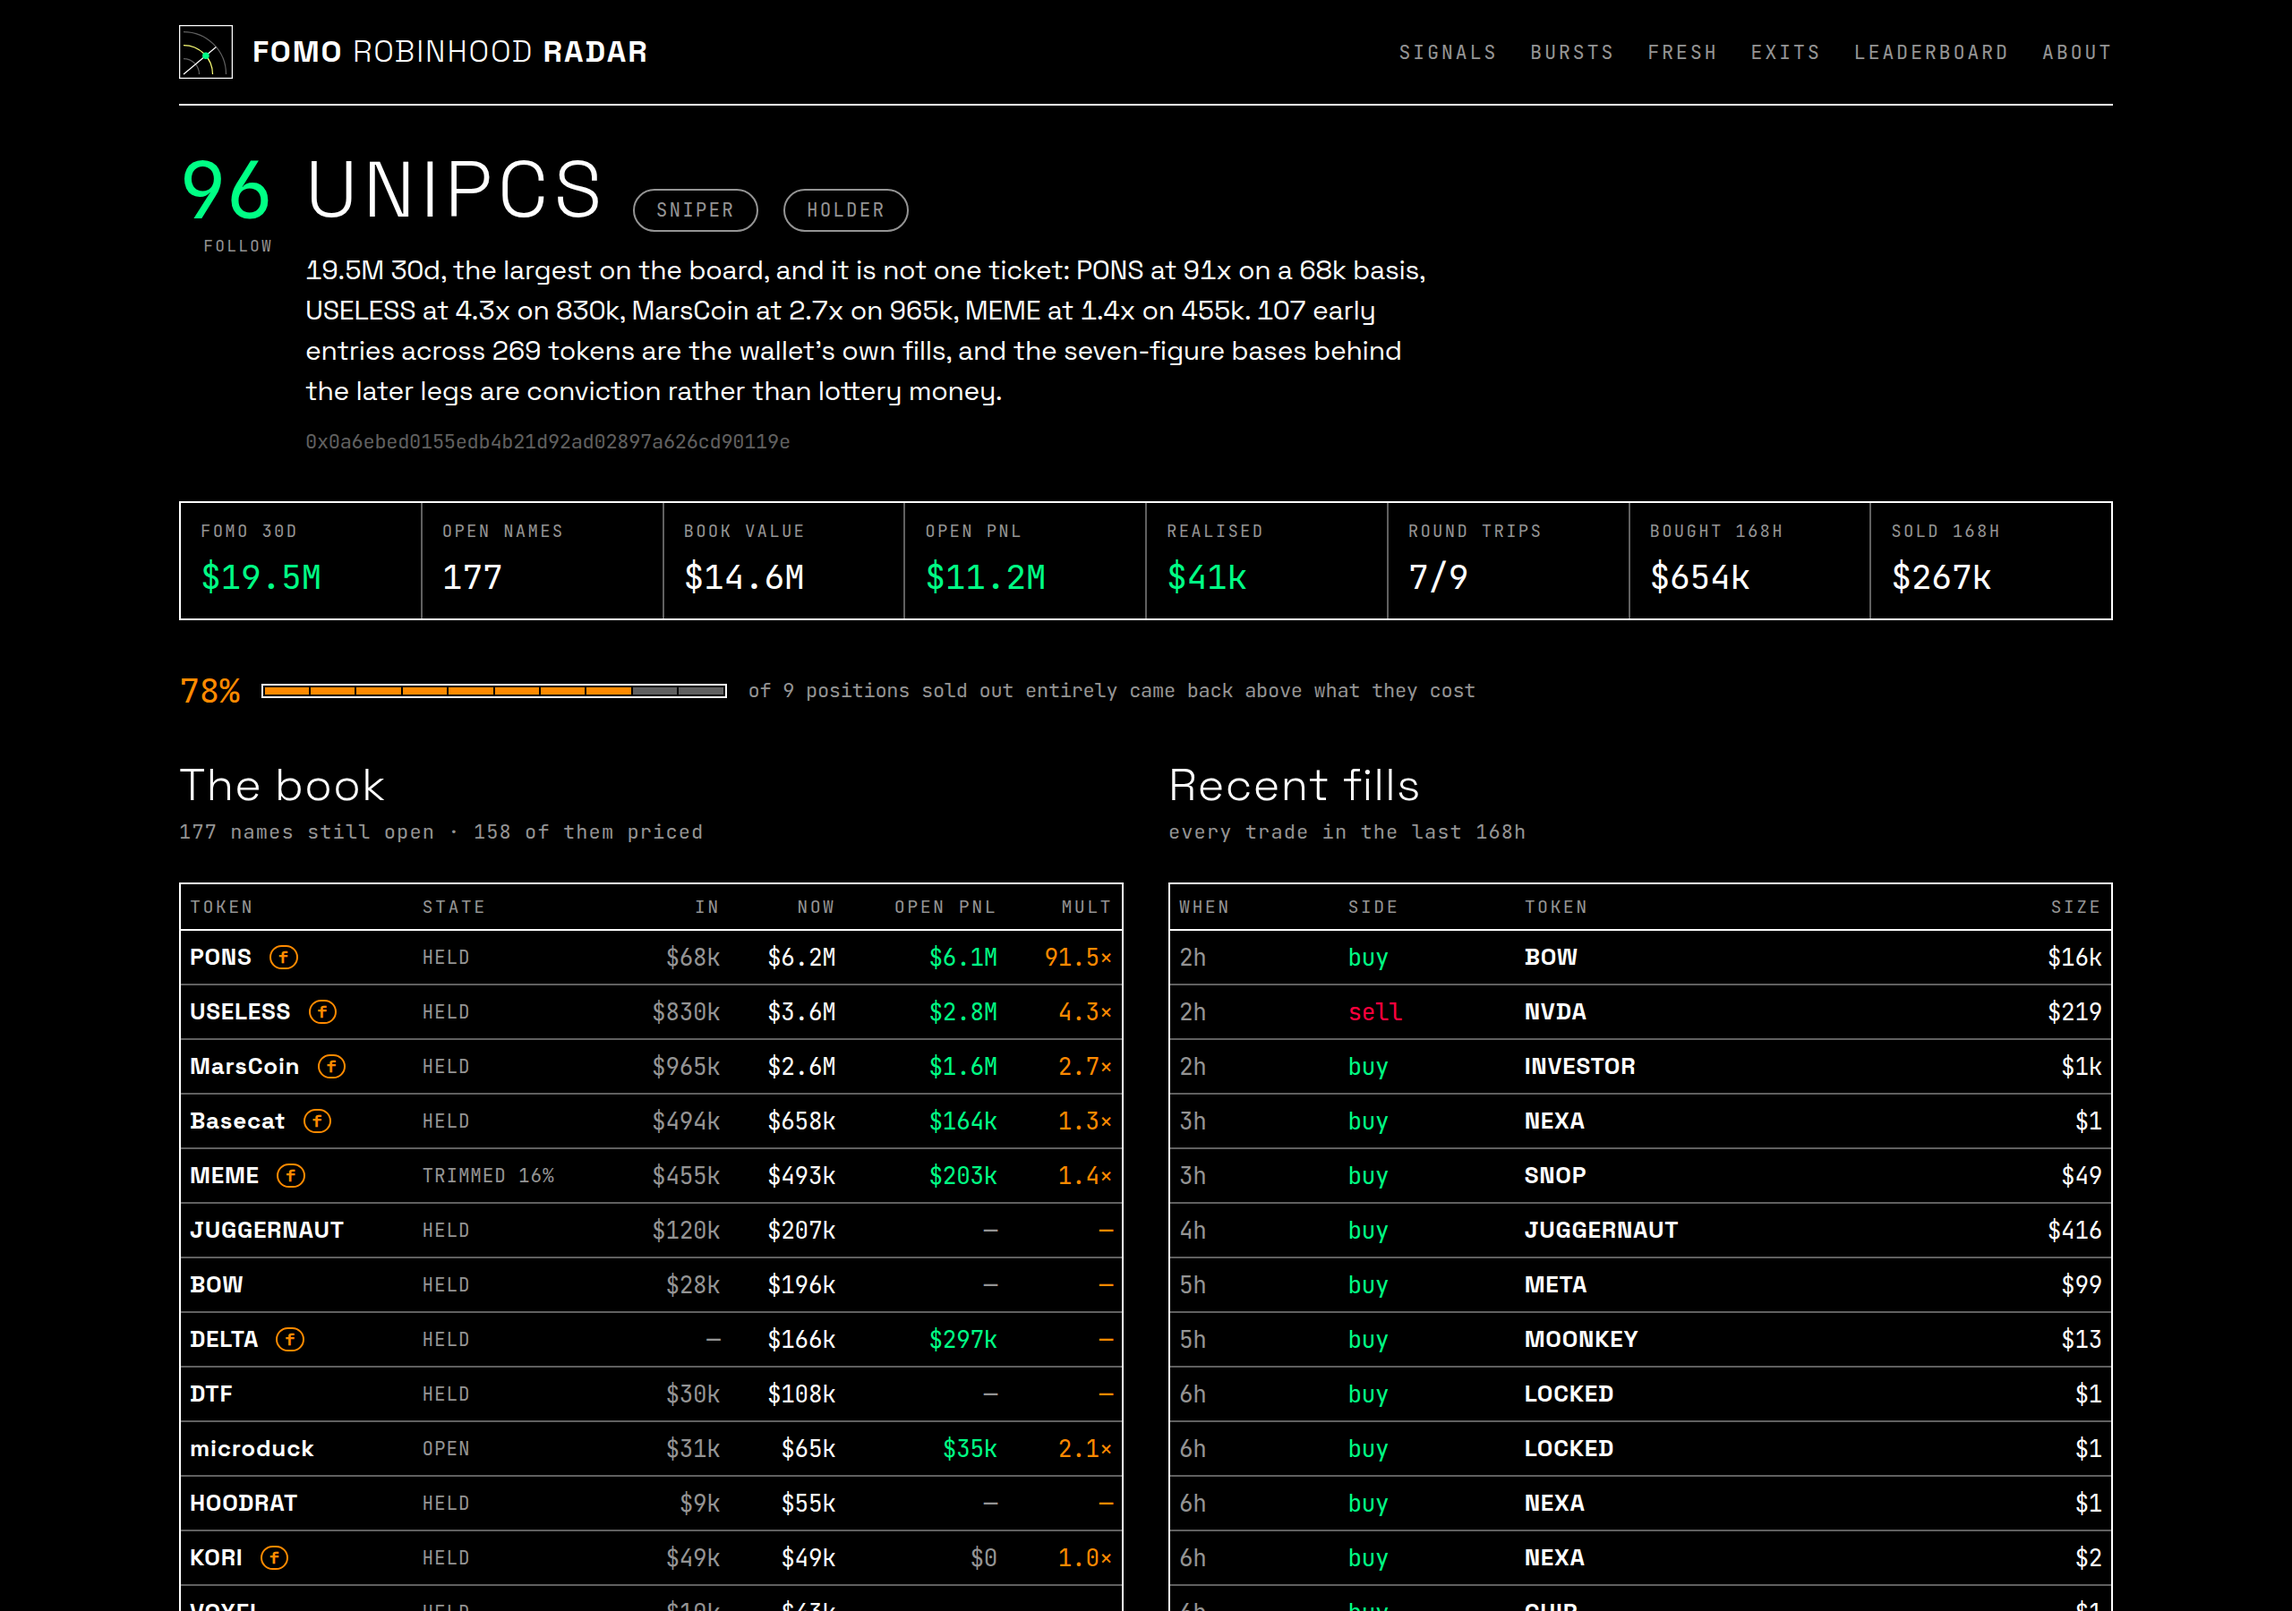
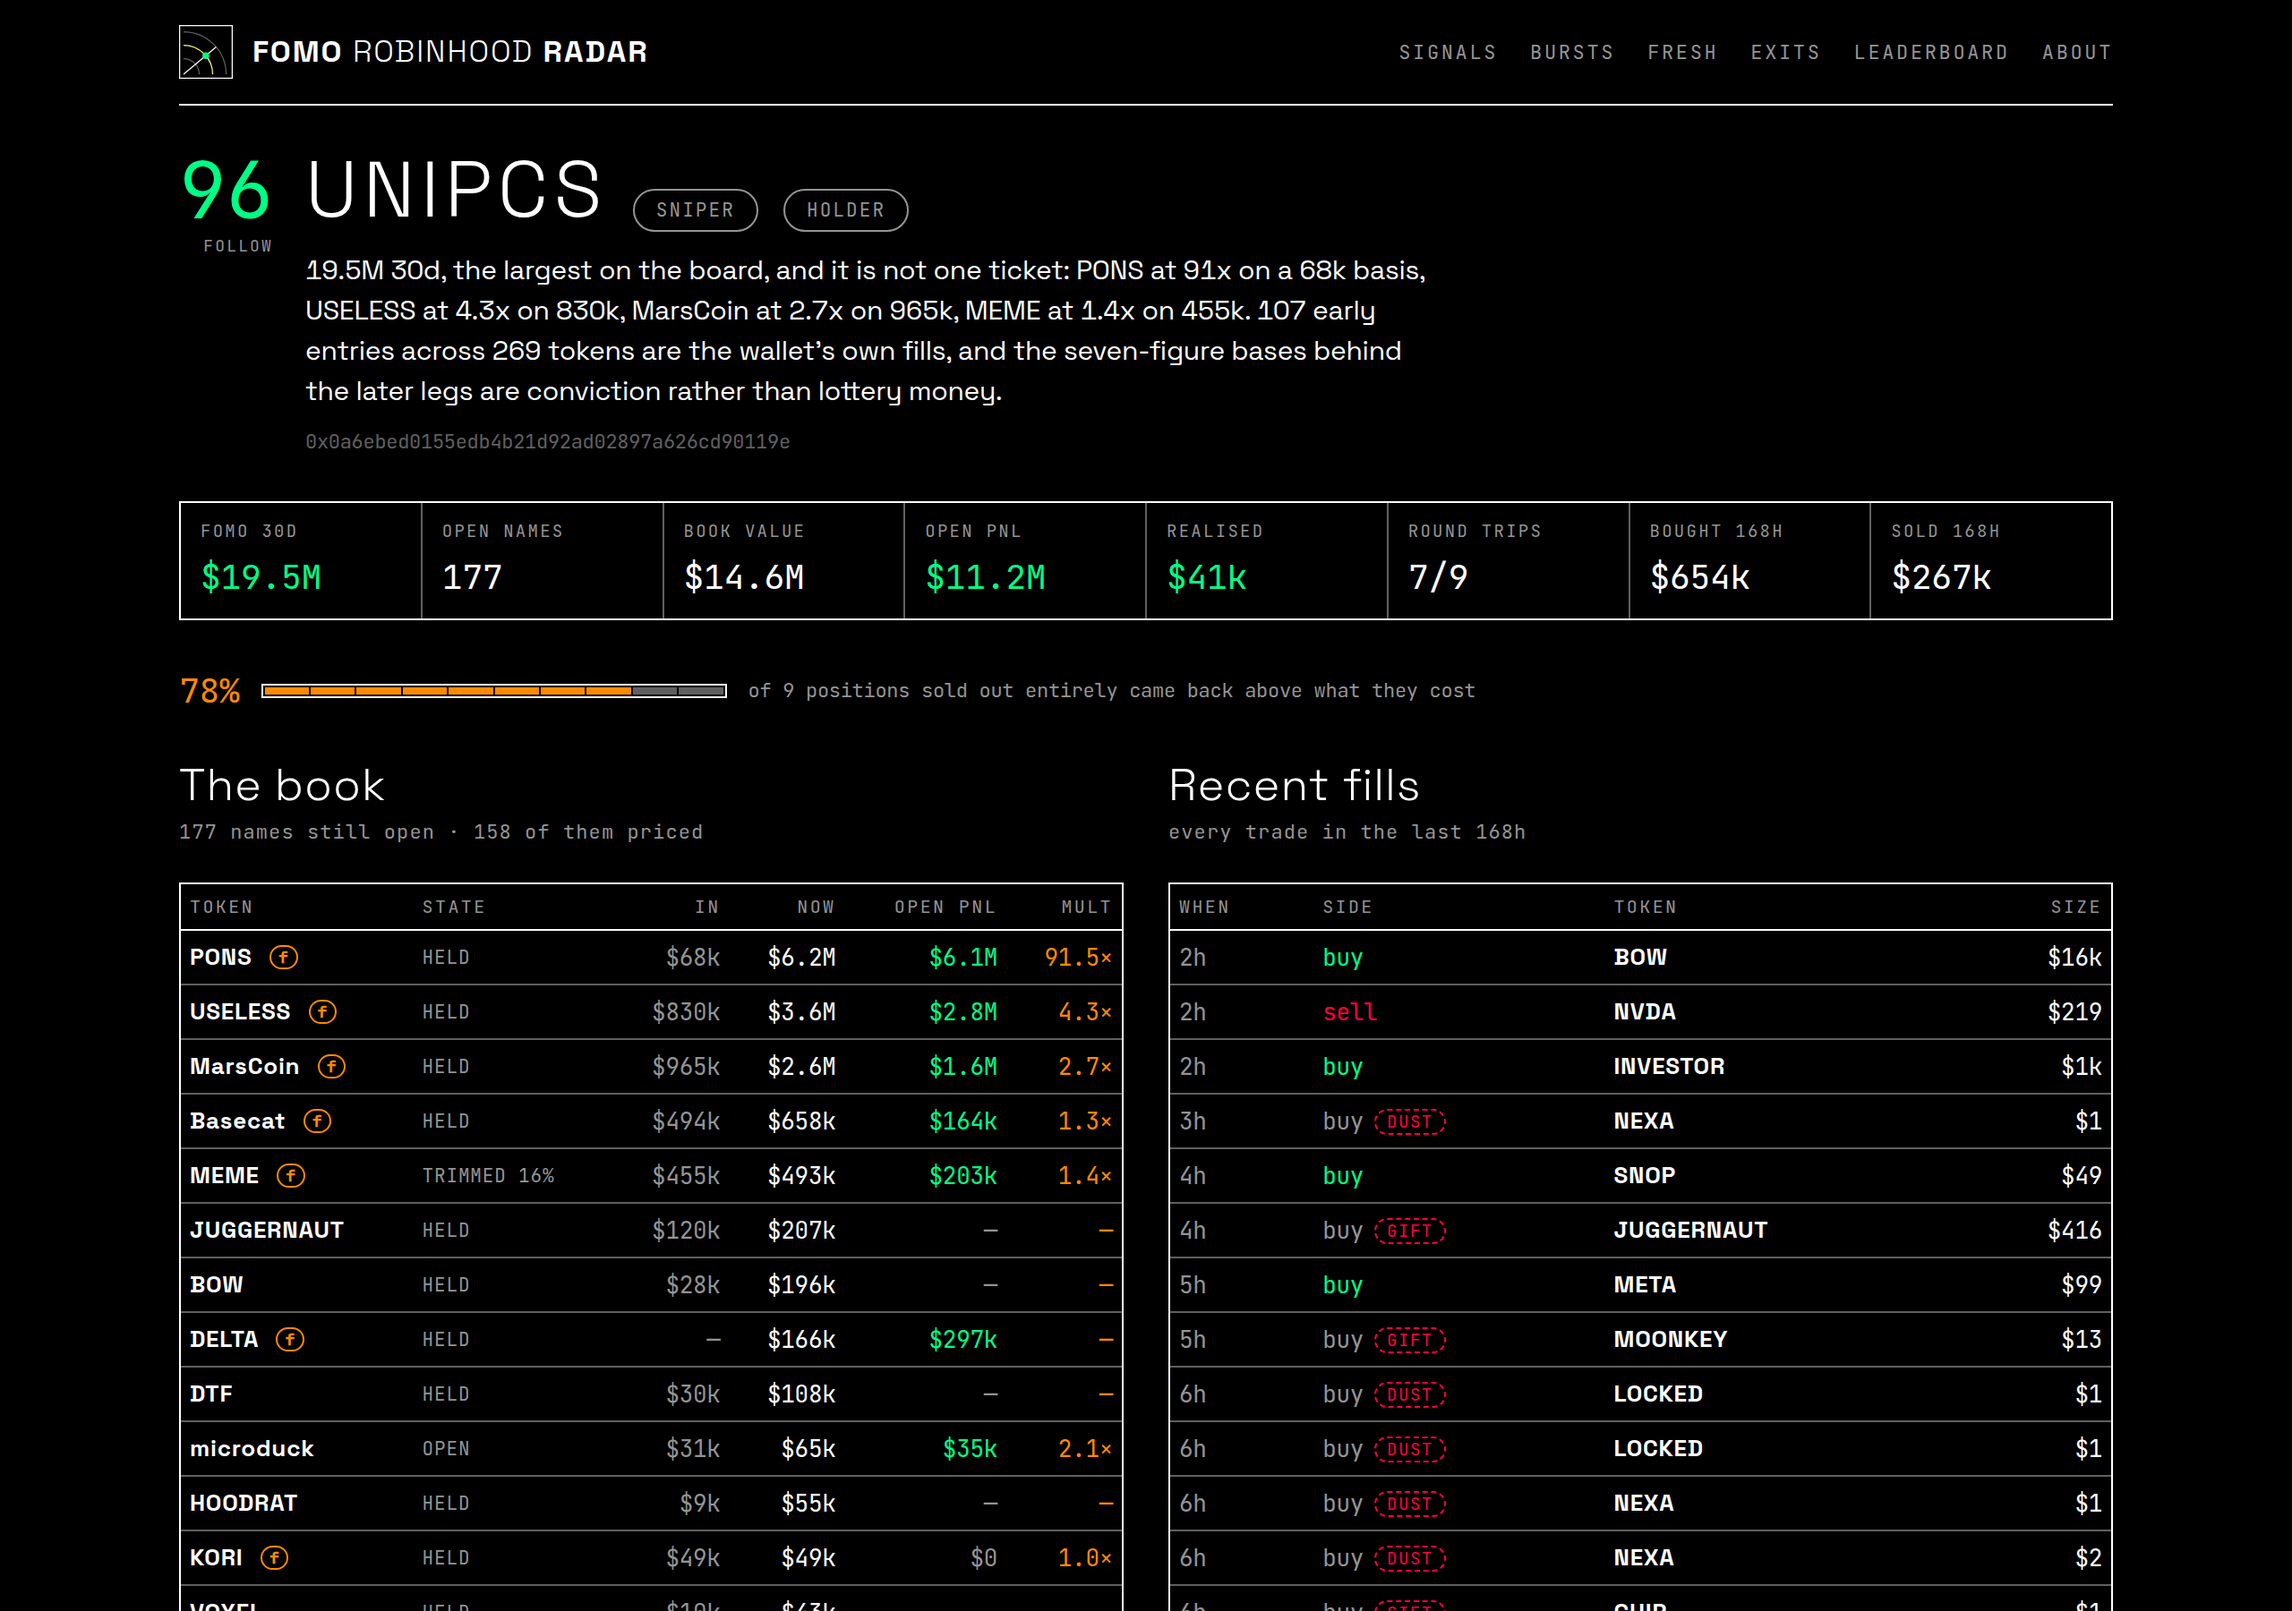
Show the site in the README
Six pages at 2x from the box itself, through loopback: headless Chrome
refuses the site's own certificate on a cold start, and the pictures do
not need TLS.

Changed region(s): [[0.6562, 0.5911, 0.7812, 1.0], [0.5625, 0.6533, 0.625, 1.0]]

diff --git a/README.md b/README.md
@@ -15,6 +15,30 @@ leaderboard ranked by judgement rather than by headline PnL.
 
 **Live: [fomoradar.app](https://fomoradar.app) · [@fomoradarRH_bot](https://t.me/fomoradarRH_bot) · [API docs](https://fomoradar.app/docs)**
 
+## What it looks like
+
+The home page: the headline, and the brain — a point cloud of the six things the pipeline does,
+with the roster's wallets walking between them.
+
+![Home](docs/screens/home.png)
+
+A trader, judged: the verdict and its reasoning, the open book with cost bases and multiples, and
+every recent fill — with the ones that were never the wallet's own marked as such.
+
+![Trader](docs/screens/trader.png)
+
+A token: who holds it, what it cost them, the flow in and out, and what they said about it.
+
+![Token](docs/screens/token.png)
+
+| Fresh — launches the cohort is entering, by how early | Exits — the same wallets leaving |
+|---|---|
+| ![Fresh](docs/screens/fresh.png) | ![Exits](docs/screens/exits.png) |
+
+The leaderboard, ranked by judgement rather than by headline PnL:
+
+![Leaderboard](docs/screens/leaderboard.png)
+
 ```bash
 pip install -e .
 cp .env.example .env          # nothing is required to start; see "Keys" below
